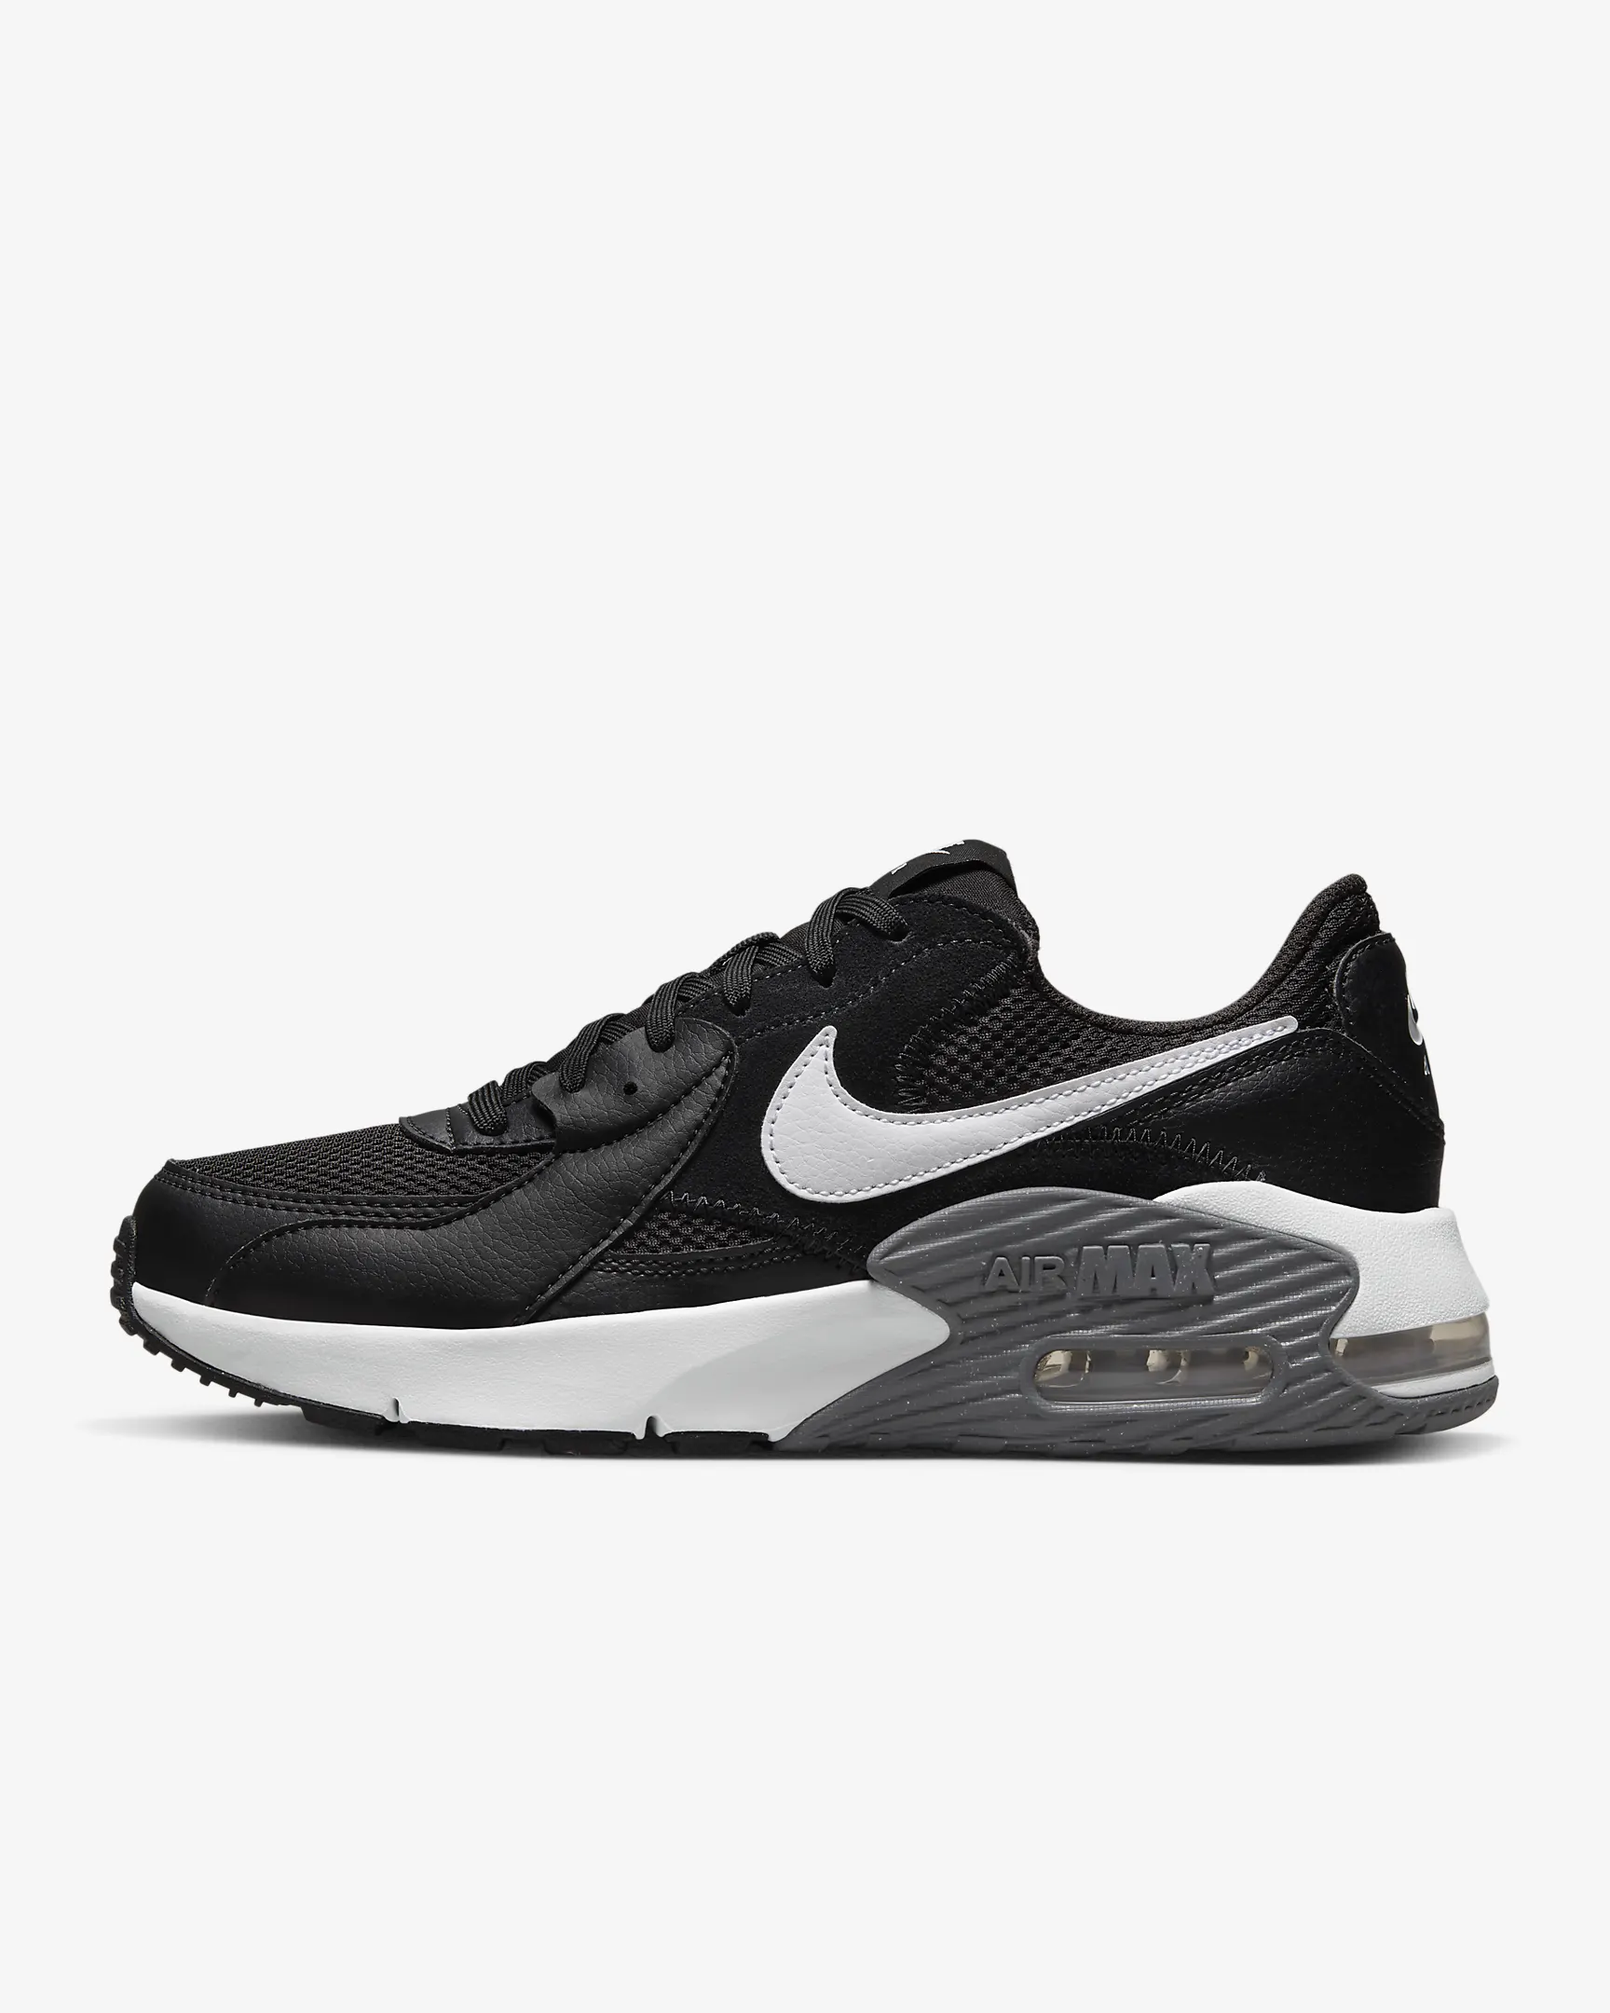
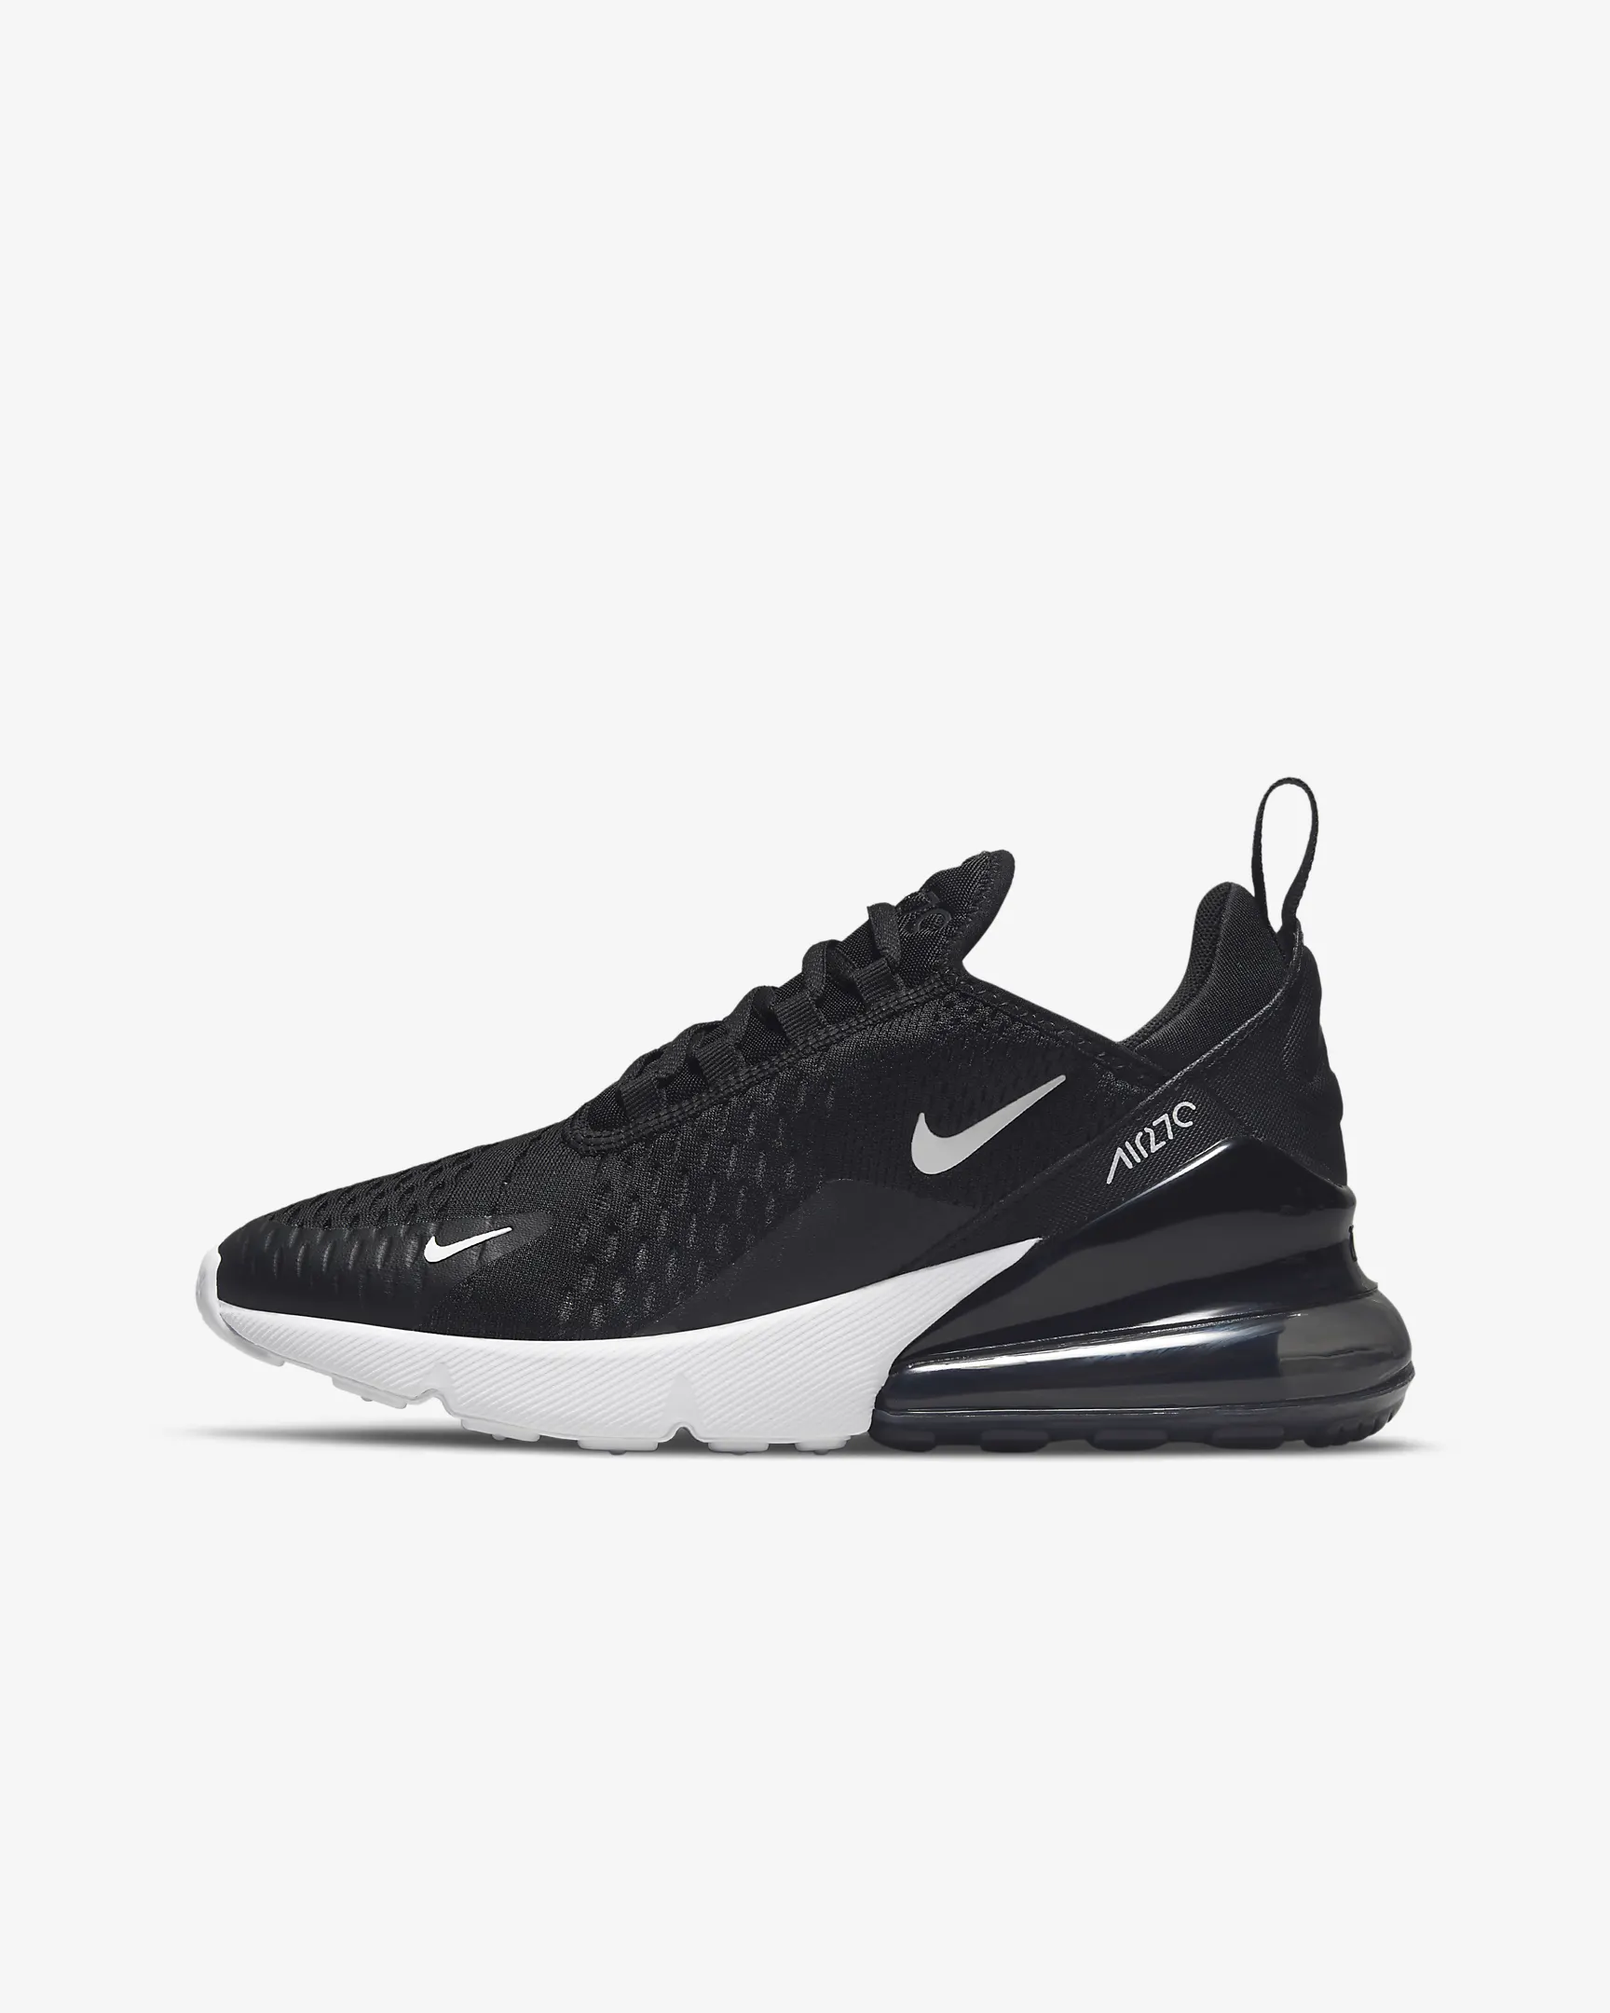
finished shoe preview - ShoeRackForm

Changed region(s): [[0.0625, 0.3722, 0.9375, 0.7444]]

diff --git a/personal-assistant-ui/ShoeRackForm.Designer.cs b/personal-assistant-ui/ShoeRackForm.Designer.cs
@@ -1,4 +1,6 @@
-namespace personal_assistant_ui
+using System.Windows.Forms;
+
+namespace personal_assistant_ui
 {
     partial class ShoeRackForm
     {
@@ -35,6 +37,8 @@
             this.label8 = new System.Windows.Forms.Label();
             this.label7 = new System.Windows.Forms.Label();
             this.label6 = new System.Windows.Forms.Label();
+            this.btn_shoe_right = new System.Windows.Forms.Button();
+            this.btn_shoe_left = new System.Windows.Forms.Button();
             this.label5 = new System.Windows.Forms.Label();
             this.label4 = new System.Windows.Forms.Label();
             this.label3 = new System.Windows.Forms.Label();
@@ -44,9 +48,13 @@
             this.btn_back1 = new System.Windows.Forms.Label();
             this.pb_shoes = new System.Windows.Forms.PictureBox();
             this.btn_back = new System.Windows.Forms.Button();
-            this.btn_shoe_right = new System.Windows.Forms.Button();
-            this.btn_shoe_left = new System.Windows.Forms.Button();
             this.btn_help = new System.Windows.Forms.Button();
+            this.label9 = new System.Windows.Forms.Label();
+            this.label10 = new System.Windows.Forms.Label();
+            this.lbl_shoe_name = new System.Windows.Forms.Label();
+            this.lbl_shoe_use = new System.Windows.Forms.Label();
+            this.lbl_shoe_sz = new System.Windows.Forms.Label();
+            this.lbl_shoe_size = new System.Windows.Forms.Label();
             this.groupBox1.SuspendLayout();
             ((System.ComponentModel.ISupportInitialize)(this.pb_shoes)).BeginInit();
             this.SuspendLayout();
@@ -67,7 +75,7 @@
             this.groupBox1.Controls.Add(this.label1);
             this.groupBox1.Location = new System.Drawing.Point(12, 45);
             this.groupBox1.Name = "groupBox1";
-            this.groupBox1.Size = new System.Drawing.Size(378, 393);
+            this.groupBox1.Size = new System.Drawing.Size(393, 353);
             this.groupBox1.TabIndex = 5;
             this.groupBox1.TabStop = false;
             this.groupBox1.Text = "Smart Shoe Rack Controls";
@@ -124,6 +132,30 @@
             this.label6.Name = "label6";
             this.label6.Size = new System.Drawing.Size(170, 1);
             this.label6.TabIndex = 28;
+            // 
+            // btn_shoe_right
+            // 
+            this.btn_shoe_right.BackgroundImage = global::personal_assistant_ui.Properties.Resources.right;
+            this.btn_shoe_right.BackgroundImageLayout = System.Windows.Forms.ImageLayout.Center;
+            this.btn_shoe_right.Cursor = System.Windows.Forms.Cursors.Hand;
+            this.btn_shoe_right.Location = new System.Drawing.Point(304, 174);
+            this.btn_shoe_right.Name = "btn_shoe_right";
+            this.btn_shoe_right.Size = new System.Drawing.Size(36, 36);
+            this.btn_shoe_right.TabIndex = 27;
+            this.btn_shoe_right.UseVisualStyleBackColor = true;
+            this.btn_shoe_right.Click += new System.EventHandler(this.btn_shoe_right_Click);
+            // 
+            // btn_shoe_left
+            // 
+            this.btn_shoe_left.BackgroundImage = global::personal_assistant_ui.Properties.Resources.left;
+            this.btn_shoe_left.BackgroundImageLayout = System.Windows.Forms.ImageLayout.Center;
+            this.btn_shoe_left.Cursor = System.Windows.Forms.Cursors.Hand;
+            this.btn_shoe_left.Location = new System.Drawing.Point(253, 174);
+            this.btn_shoe_left.Name = "btn_shoe_left";
+            this.btn_shoe_left.Size = new System.Drawing.Size(36, 36);
+            this.btn_shoe_left.TabIndex = 26;
+            this.btn_shoe_left.UseVisualStyleBackColor = true;
+            this.btn_shoe_left.Click += new System.EventHandler(this.btn_shoe_left_Click);
             // 
             // label5
             // 
@@ -199,10 +231,10 @@
             // 
             // pb_shoes
             // 
-            this.pb_shoes.Image = global::personal_assistant_ui.Properties.Resources.shoe1;
-            this.pb_shoes.Location = new System.Drawing.Point(396, 45);
+            this.pb_shoes.Image = global::personal_assistant_ui.Properties.Resources.shoe0;
+            this.pb_shoes.Location = new System.Drawing.Point(443, 45);
             this.pb_shoes.Name = "pb_shoes";
-            this.pb_shoes.Size = new System.Drawing.Size(269, 353);
+            this.pb_shoes.Size = new System.Drawing.Size(233, 285);
             this.pb_shoes.SizeMode = System.Windows.Forms.PictureBoxSizeMode.Zoom;
             this.pb_shoes.TabIndex = 20;
             this.pb_shoes.TabStop = false;
@@ -220,30 +252,6 @@
             this.btn_back.UseVisualStyleBackColor = true;
             this.btn_back.Click += new System.EventHandler(this.button2_Click);
             // 
-            // btn_shoe_right
-            // 
-            this.btn_shoe_right.BackgroundImage = global::personal_assistant_ui.Properties.Resources.right;
-            this.btn_shoe_right.BackgroundImageLayout = System.Windows.Forms.ImageLayout.Center;
-            this.btn_shoe_right.Cursor = System.Windows.Forms.Cursors.Hand;
-            this.btn_shoe_right.Location = new System.Drawing.Point(331, 175);
-            this.btn_shoe_right.Name = "btn_shoe_right";
-            this.btn_shoe_right.Size = new System.Drawing.Size(36, 36);
-            this.btn_shoe_right.TabIndex = 27;
-            this.btn_shoe_right.UseVisualStyleBackColor = true;
-            this.btn_shoe_right.Click += new System.EventHandler(this.btn_shoe_right_Click);
-            // 
-            // btn_shoe_left
-            // 
-            this.btn_shoe_left.BackgroundImage = global::personal_assistant_ui.Properties.Resources.left;
-            this.btn_shoe_left.BackgroundImageLayout = System.Windows.Forms.ImageLayout.Center;
-            this.btn_shoe_left.Cursor = System.Windows.Forms.Cursors.Hand;
-            this.btn_shoe_left.Location = new System.Drawing.Point(279, 175);
-            this.btn_shoe_left.Name = "btn_shoe_left";
-            this.btn_shoe_left.Size = new System.Drawing.Size(36, 36);
-            this.btn_shoe_left.TabIndex = 26;
-            this.btn_shoe_left.UseVisualStyleBackColor = true;
-            this.btn_shoe_left.Click += new System.EventHandler(this.btn_shoe_left_Click);
-            // 
             // btn_help
             // 
             this.btn_help.BackgroundImage = ((System.Drawing.Image)(resources.GetObject("btn_help.BackgroundImage")));
@@ -256,12 +264,75 @@
             this.btn_help.UseVisualStyleBackColor = true;
             this.btn_help.Click += new System.EventHandler(this.button4_Click);
             // 
+            // label9
+            // 
+            this.label9.AutoSize = true;
+            this.label9.Font = new System.Drawing.Font("Microsoft Sans Serif", 8.25F, System.Drawing.FontStyle.Bold, System.Drawing.GraphicsUnit.Point, ((byte)(161)));
+            this.label9.Location = new System.Drawing.Point(444, 348);
+            this.label9.Name = "label9";
+            this.label9.Size = new System.Drawing.Size(78, 13);
+            this.label9.TabIndex = 26;
+            this.label9.Text = "Shoe name: ";
+            // 
+            // label10
+            // 
+            this.label10.AutoSize = true;
+            this.label10.Font = new System.Drawing.Font("Microsoft Sans Serif", 8.25F, System.Drawing.FontStyle.Bold, System.Drawing.GraphicsUnit.Point, ((byte)(161)));
+            this.label10.Location = new System.Drawing.Point(444, 395);
+            this.label10.Name = "label10";
+            this.label10.Size = new System.Drawing.Size(99, 13);
+            this.label10.TabIndex = 27;
+            this.label10.Text = "Suggested use: ";
+            // 
+            // lbl_shoe_name
+            // 
+            this.lbl_shoe_name.AutoSize = true;
+            this.lbl_shoe_name.Location = new System.Drawing.Point(528, 348);
+            this.lbl_shoe_name.Name = "lbl_shoe_name";
+            this.lbl_shoe_name.Size = new System.Drawing.Size(77, 13);
+            this.lbl_shoe_name.TabIndex = 28;
+            this.lbl_shoe_name.Text = "Nike Air Presto";
+            // 
+            // lbl_shoe_use
+            // 
+            this.lbl_shoe_use.AutoSize = true;
+            this.lbl_shoe_use.Location = new System.Drawing.Point(549, 395);
+            this.lbl_shoe_use.Name = "lbl_shoe_use";
+            this.lbl_shoe_use.Size = new System.Drawing.Size(72, 13);
+            this.lbl_shoe_use.TabIndex = 29;
+            this.lbl_shoe_use.Text = "Training & Gym";
+            // 
+            // lbl_shoe_sz
+            // 
+            this.lbl_shoe_sz.AutoSize = true;
+            this.lbl_shoe_sz.Font = new System.Drawing.Font("Microsoft Sans Serif", 8.25F, System.Drawing.FontStyle.Bold, System.Drawing.GraphicsUnit.Point, ((byte)(161)));
+            this.lbl_shoe_sz.Location = new System.Drawing.Point(444, 371);
+            this.lbl_shoe_sz.Name = "lbl_shoe_sz";
+            this.lbl_shoe_sz.Size = new System.Drawing.Size(39, 13);
+            this.lbl_shoe_sz.TabIndex = 30;
+            this.lbl_shoe_sz.Text = "Size: ";
+            // 
+            // lbl_shoe_size
+            // 
+            this.lbl_shoe_size.AutoSize = true;
+            this.lbl_shoe_size.Location = new System.Drawing.Point(489, 371);
+            this.lbl_shoe_size.Name = "lbl_shoe_size";
+            this.lbl_shoe_size.Size = new System.Drawing.Size(19, 13);
+            this.lbl_shoe_size.TabIndex = 31;
+            this.lbl_shoe_size.Text = "49";
+            // 
             // ShoeRackForm
             // 
             this.AutoScaleDimensions = new System.Drawing.SizeF(96F, 96F);
             this.AutoScaleMode = System.Windows.Forms.AutoScaleMode.Dpi;
             this.BackColor = System.Drawing.Color.LightBlue;
             this.ClientSize = new System.Drawing.Size(800, 450);
+            this.Controls.Add(this.lbl_shoe_size);
+            this.Controls.Add(this.lbl_shoe_sz);
+            this.Controls.Add(this.lbl_shoe_use);
+            this.Controls.Add(this.lbl_shoe_name);
+            this.Controls.Add(this.label10);
+            this.Controls.Add(this.label9);
             this.Controls.Add(this.pb_shoes);
             this.Controls.Add(this.btn_help1);
             this.Controls.Add(this.btn_back1);
@@ -301,5 +372,11 @@
         private Label label6;
         private ComboBox comboBox1;
         private PictureBox pb_shoes;
+        private Label label9;
+        private Label label10;
+        private Label lbl_shoe_name;
+        private Label lbl_shoe_use;
+        private Label lbl_shoe_sz;
+        private Label lbl_shoe_size;
     }
 }

diff --git a/personal-assistant-ui/ShoeRackForm.cs b/personal-assistant-ui/ShoeRackForm.cs
@@ -55,14 +55,47 @@ namespace personal_assistant_ui
 
         }
 
+        int shoeCount = 0;
         private void btn_shoe_right_Click(object sender, EventArgs e)
         {
-            
-        }
+            if (shoeCount < 2)
+            {
+                shoeCount++;
+                string imgName = "shoe" + shoeCount;
+                lbl_shoe_use.Text = imgName;
+                pb_shoes.Image = (Image)Properties.Resources.ResourceManager.GetObject(imgName);
+            }
 
+            switch(shoeCount)
+            {
+                case 0:
+                    lbl_shoe_name.Text = "Nike Air Presto";
+                    lbl_shoe_size.Text = "49";
+                    lbl_shoe_use.Text = "Training & Gym";
+                    break;
+                case 1:
+                    lbl_shoe_name.Text = "Nike AirMax Old School";
+                    lbl_shoe_size.Text = "46.5";
+                    lbl_shoe_use.Text = "Casual";
+                    break;
+                case 2:
+                    lbl_shoe_name.Text = "Nike AirMax v2.0";
+                    lbl_shoe_size.Text = "47.5";
+                    lbl_shoe_use.Text = "Interview/Meeting";
+                    break;
+            }
+        }
+         
         private void btn_shoe_left_Click(object sender, EventArgs e)
         {
-
+            if (shoeCount > 0)
+            {
+                shoeCount--;
+                string imgName = "shoe" + shoeCount; 
+                lbl_shoe_use.Text = imgName;
+                pb_shoes.Image = (Image)Properties.Resources.ResourceManager.GetObject(imgName);
+            }
+            
         }
     }
 }

diff --git a/personal-assistant-ui/Properties/Resources.Designer.cs b/personal-assistant-ui/Properties/Resources.Designer.cs
@@ -182,6 +182,16 @@ namespace personal_assistant_ui.Properties {
         /// <summary>
         ///   Looks up a localized resource of type System.Drawing.Bitmap.
         /// </summary>
+        internal static System.Drawing.Bitmap shoe0 {
+            get {
+                object obj = ResourceManager.GetObject("shoe0", resourceCulture);
+                return ((System.Drawing.Bitmap)(obj));
+            }
+        }
+        
+        /// <summary>
+        ///   Looks up a localized resource of type System.Drawing.Bitmap.
+        /// </summary>
         internal static System.Drawing.Bitmap shoe1 {
             get {
                 object obj = ResourceManager.GetObject("shoe1", resourceCulture);
@@ -195,16 +205,6 @@ namespace personal_assistant_ui.Properties {
         internal static System.Drawing.Bitmap shoe2 {
             get {
                 object obj = ResourceManager.GetObject("shoe2", resourceCulture);
-                return ((System.Drawing.Bitmap)(obj));
-            }
-        }
-        
-        /// <summary>
-        ///   Looks up a localized resource of type System.Drawing.Bitmap.
-        /// </summary>
-        internal static System.Drawing.Bitmap shoe3 {
-            get {
-                object obj = ResourceManager.GetObject("shoe3", resourceCulture);
                 return ((System.Drawing.Bitmap)(obj));
             }
         }

diff --git a/personal-assistant-ui/MainMenu.cs b/personal-assistant-ui/MainMenu.cs
@@ -39,9 +39,6 @@ namespace personal_assistant_ui
         private void button5_Click(object sender, EventArgs e)
         {
             // Turn on/off sound of lamp
-            Assembly assembly;
-            Stream soundStream;
-            assembly = Assembly.GetExecutingAssembly();
             SoundPlayer sp = new SoundPlayer(Resources.turn_on_off_lamp);
             sp.Play();
 

diff --git a/personal-assistant-ui/signup.cs b/personal-assistant-ui/signup.cs
@@ -4,7 +4,6 @@ using System.ComponentModel;
 using System.Data;
 using System.Drawing;
 using System.Linq;
-using System.Speech.Synthesis;
 using System.Text;
 using System.Threading.Tasks;
 using System.Windows.Forms;
